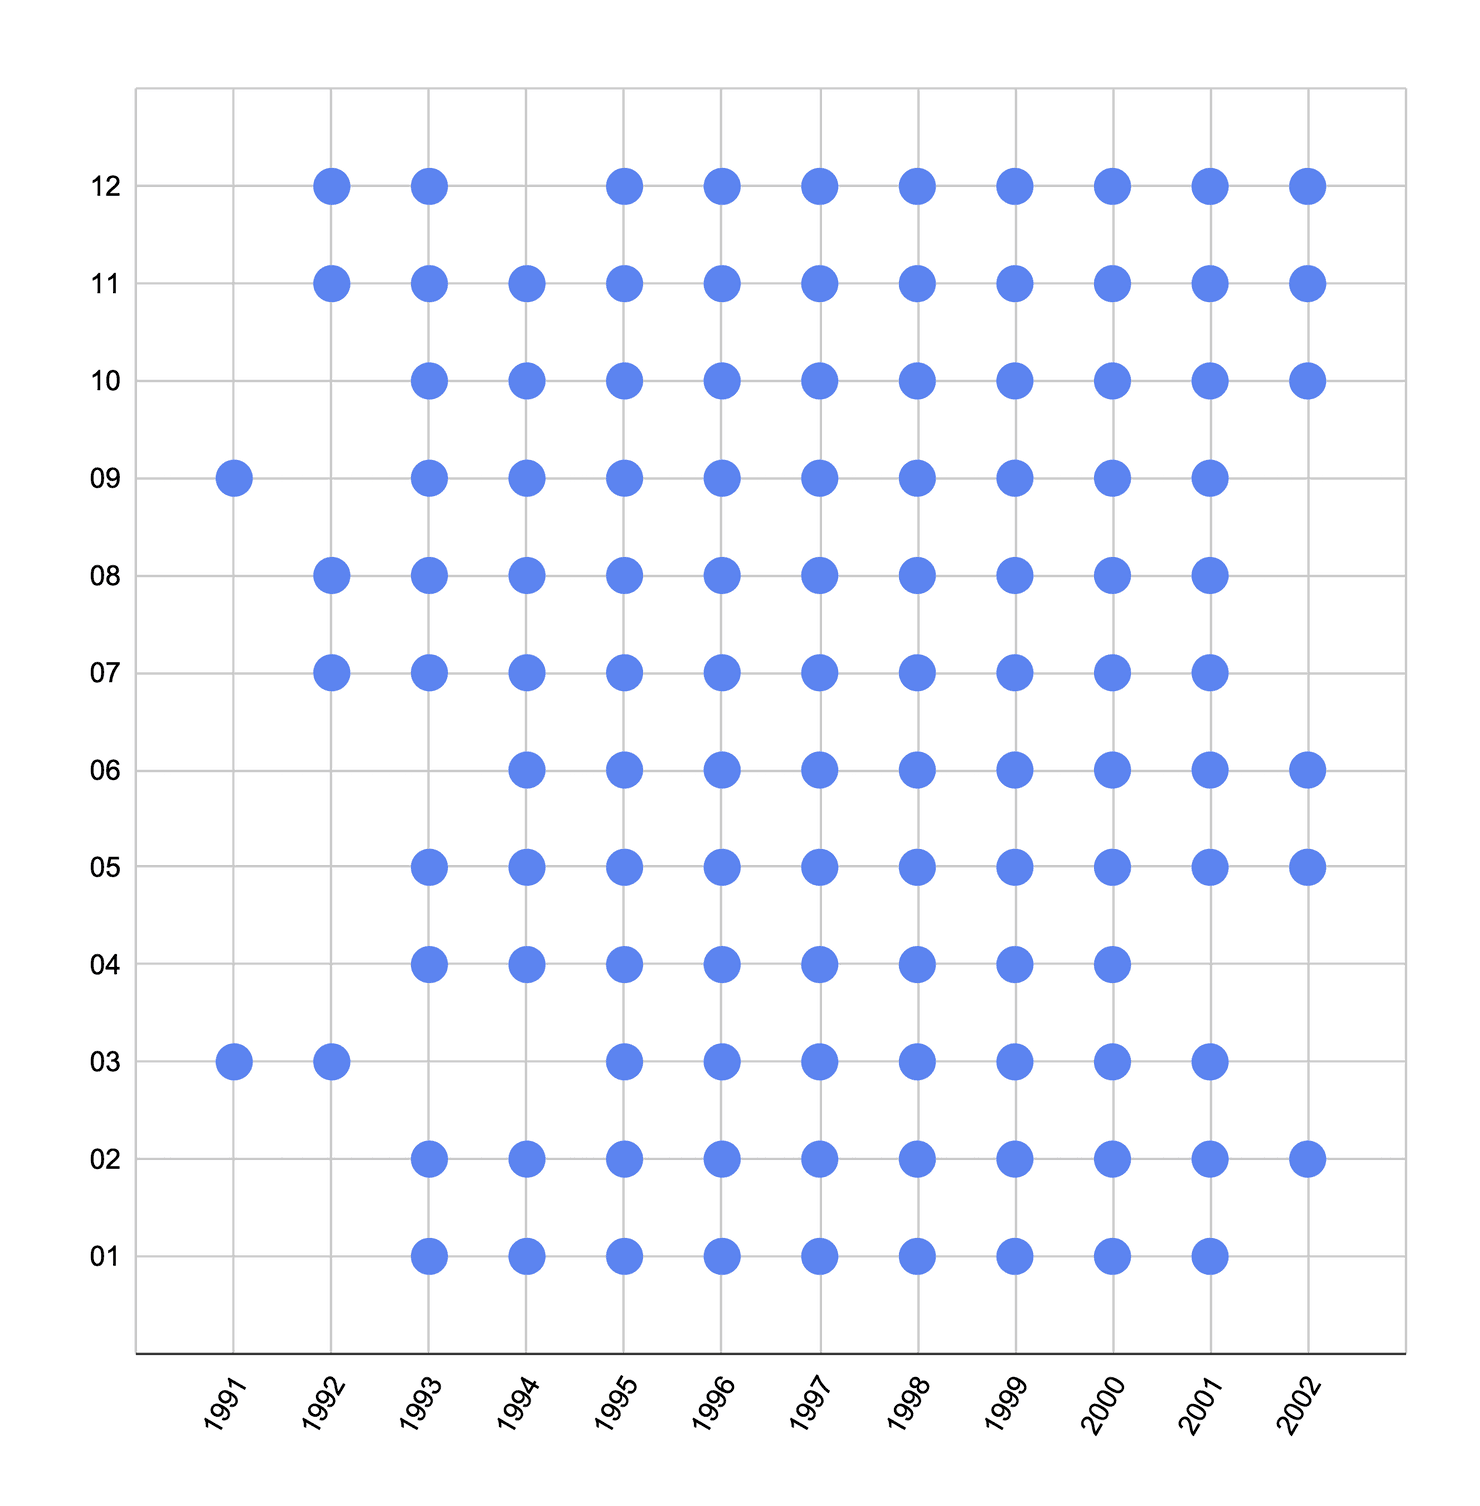
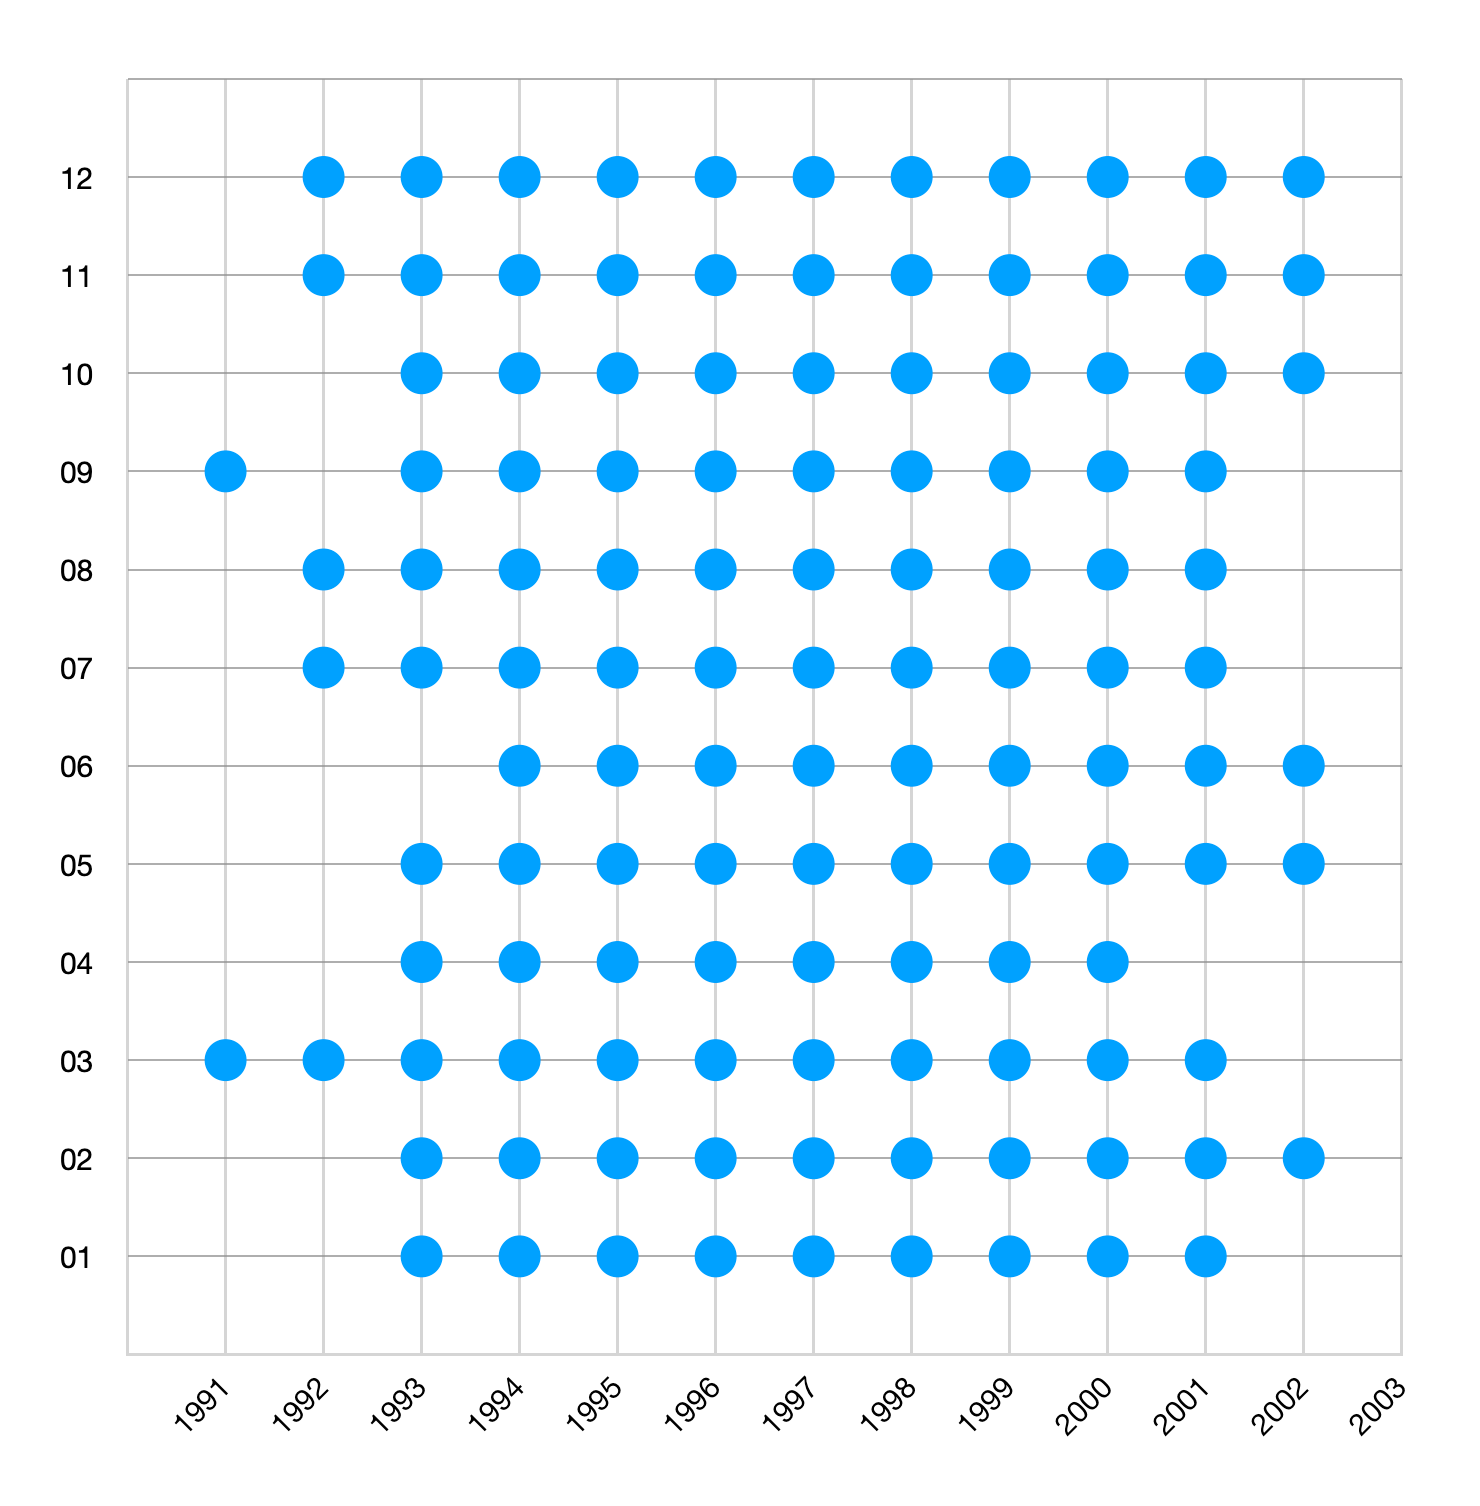
up

diff --git a/_posts/2021/2021-10-30-macintosh-magazine-media.md b/_posts/2021/2021-10-30-macintosh-magazine-media.md
@@ -1,7 +1,7 @@
 ---
 layout: post
 title: "I'm preserving vintage Macintosh magazine media"
-last_modified_at: '2024-03-25T13:47+00:00'
+last_modified_at: '2024-07-29T00:19+01:00'
 date: '2021-10-30T12:34+00:00'
 tags:
 - macintosh
@@ -29,11 +29,11 @@ This is such an amazing treasure trove of files, containing many long lost files
 
 ## Archive status report
 
-The archive as it stands (updated March 2024):
+The archive as it stands (updated July 2024):
 
 *   date range: 1991–2002
-*   total media: 425 discs
-*   total files: 929,288
+*   total media: 462 discs
+*   total files: 998,519 files
 
 ![PNG](https://cdn.gingerbeardman.com/images/posts/mmm-scatter.png "Distribution of discs by month")
 {:.tofigure}
